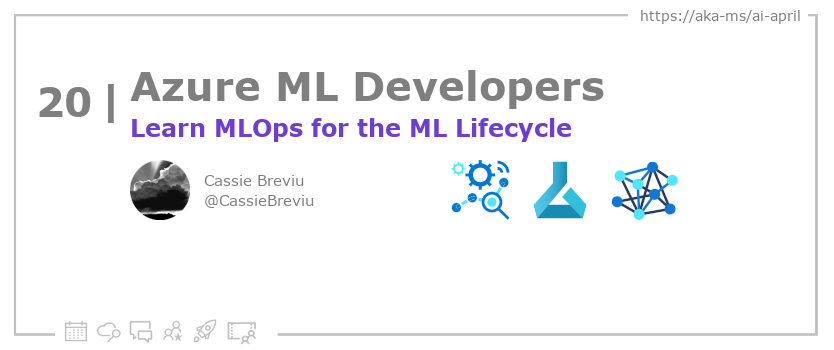
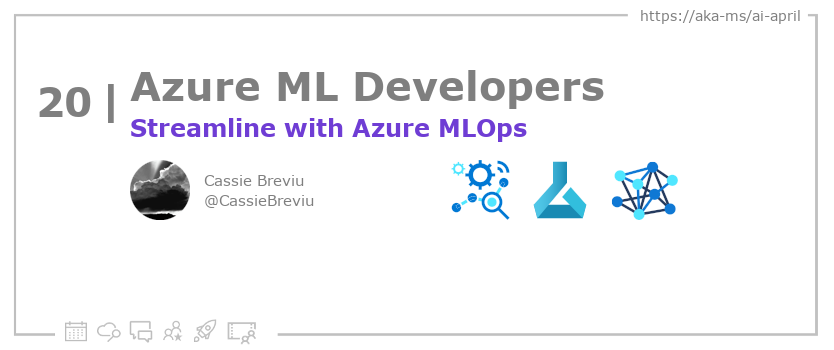
docs

Changed region(s): [[0.1559, 0.3143, 0.6859, 0.4]]

diff --git a/website/blog/2023-aia/2023-04-21-mlops-intro/index.md b/website/blog/2023-aia/2023-04-21-mlops-intro/index.md
@@ -1,6 +1,6 @@
 ---
 slug: 2023-day20
-title: "20. 🧑🏽🔬Learn MLOps for the ML Lifecycle"
+title: "20. 🧑🏽🔬Streamline with Azure MLOps"
 authors: ['Cassie']
 draft: false
 hide_table_of_contents: false
@@ -16,7 +16,7 @@ description: "Learn about Azure Machine Learning lifecycle and open source tooli
 <head>
 
   <meta property="og:url" content="https://azureaidevs.github.io/hub/blog/2023-day20" />
-  <meta property="og:title" content="Learn MLOps for the ML Lifecycle" />
+  <meta property="og:title" content="Streamline with Azure MLOps" />
   <meta property="og:description" content="Learn about Azure Machine Learning lifecycle and open source tooling to start building MLOps https://azureaidevs.github.io/hub/blog/2023-day20 #30DaysOfAzureAI #AzureAiDevs #AI #AzureMLOps" />
   <meta property="og:image" content="https://azureaidevs.github.io/hub/img/2023/banner-day20.png" />
   <meta property="og:type" content="article" />
@@ -29,7 +29,7 @@ description: "Learn about Azure Machine Learning lifecycle and open source tooli
 
 - 📧 [Sign up for the Azure AI Developer Newsletter](https://aka.ms/azure-ai-dev-newsletter)
 - 📰 [Subscribe to the #30DaysOfAzureAI RSS feed](https://azureaidevs.github.io/hub/blog/rss.xml)
-- 📌 [Ask a question about this post on GitHub Discussions](https://github.com/AzureAiDevs/hub/discussions/categories/20-learn-mlops-for-the-ml-lifecycle)
+- 📌 [Ask a question about this post on GitHub Discussions](https://github.com/AzureAiDevs/hub/discussions/categories/20-streamline-with-azure-mlops)
 - 💡 [Suggest a topic for a future post](https://github.com/AzureAiDevs/hub/discussions/categories/call-for-content)
 
 ## 🗓 Day _20_ of #30DaysOfAzureAI
@@ -100,4 +100,4 @@ Today's [article](https://learn.microsoft.com/events/ignite-2022/cll99-learn-liv
 
 ## 🙋🏾♂ Questions?
 
-[Remember, you can ask a question about this post on GitHub Discussions](https://github.com/AzureAiDevs/Discussions/discussions/categories/20-learn-mlops-for-the-ml-lifecycle)
+[Remember, you can ask a question about this post on GitHub Discussions](https://github.com/AzureAiDevs/Discussions/discussions/categories/20-streamline-with-azure-mlops)
